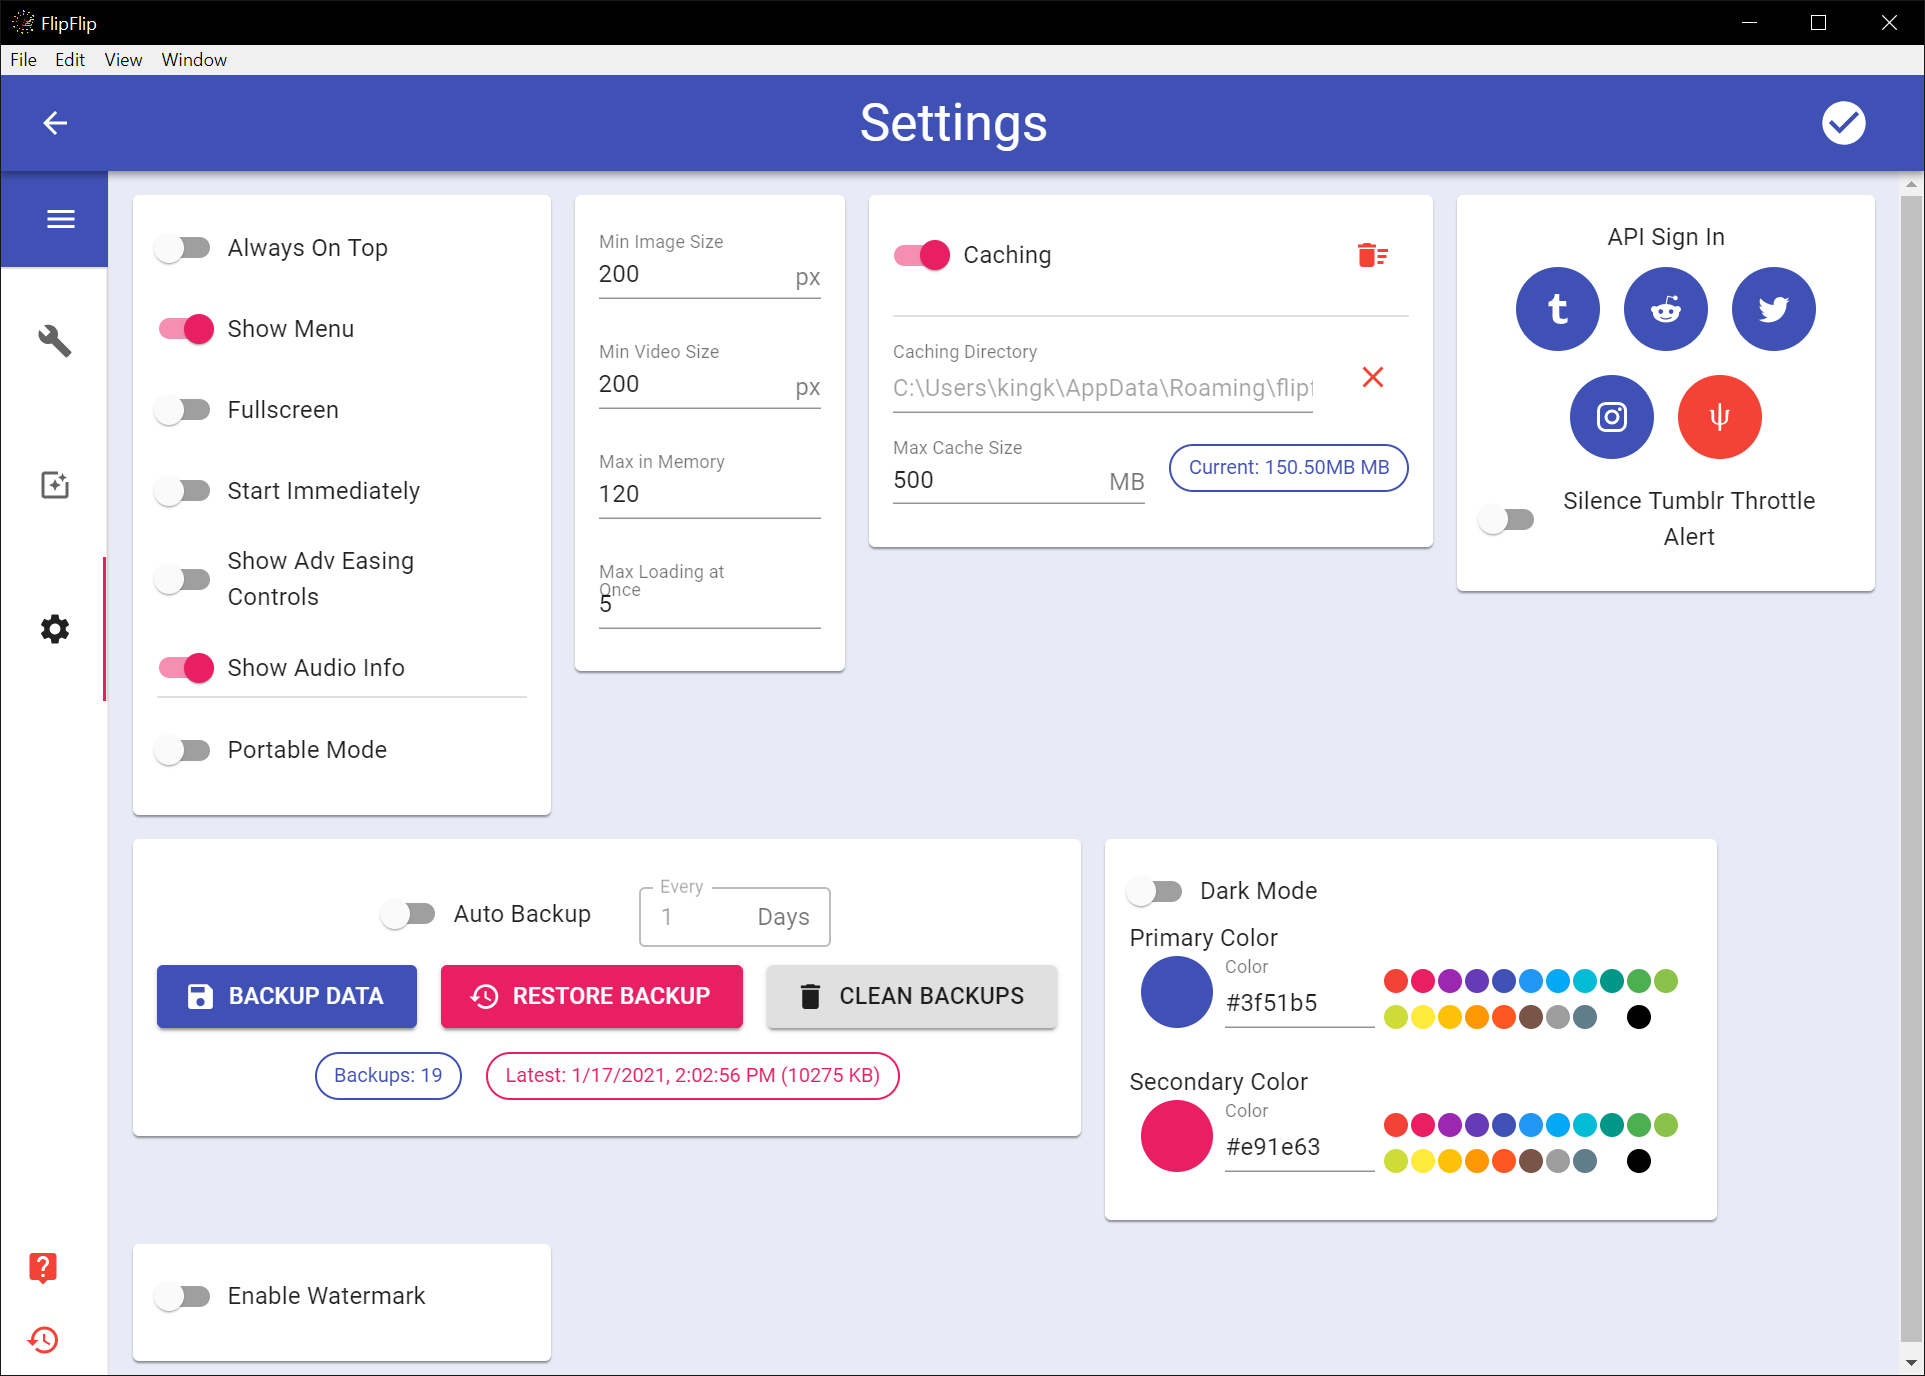
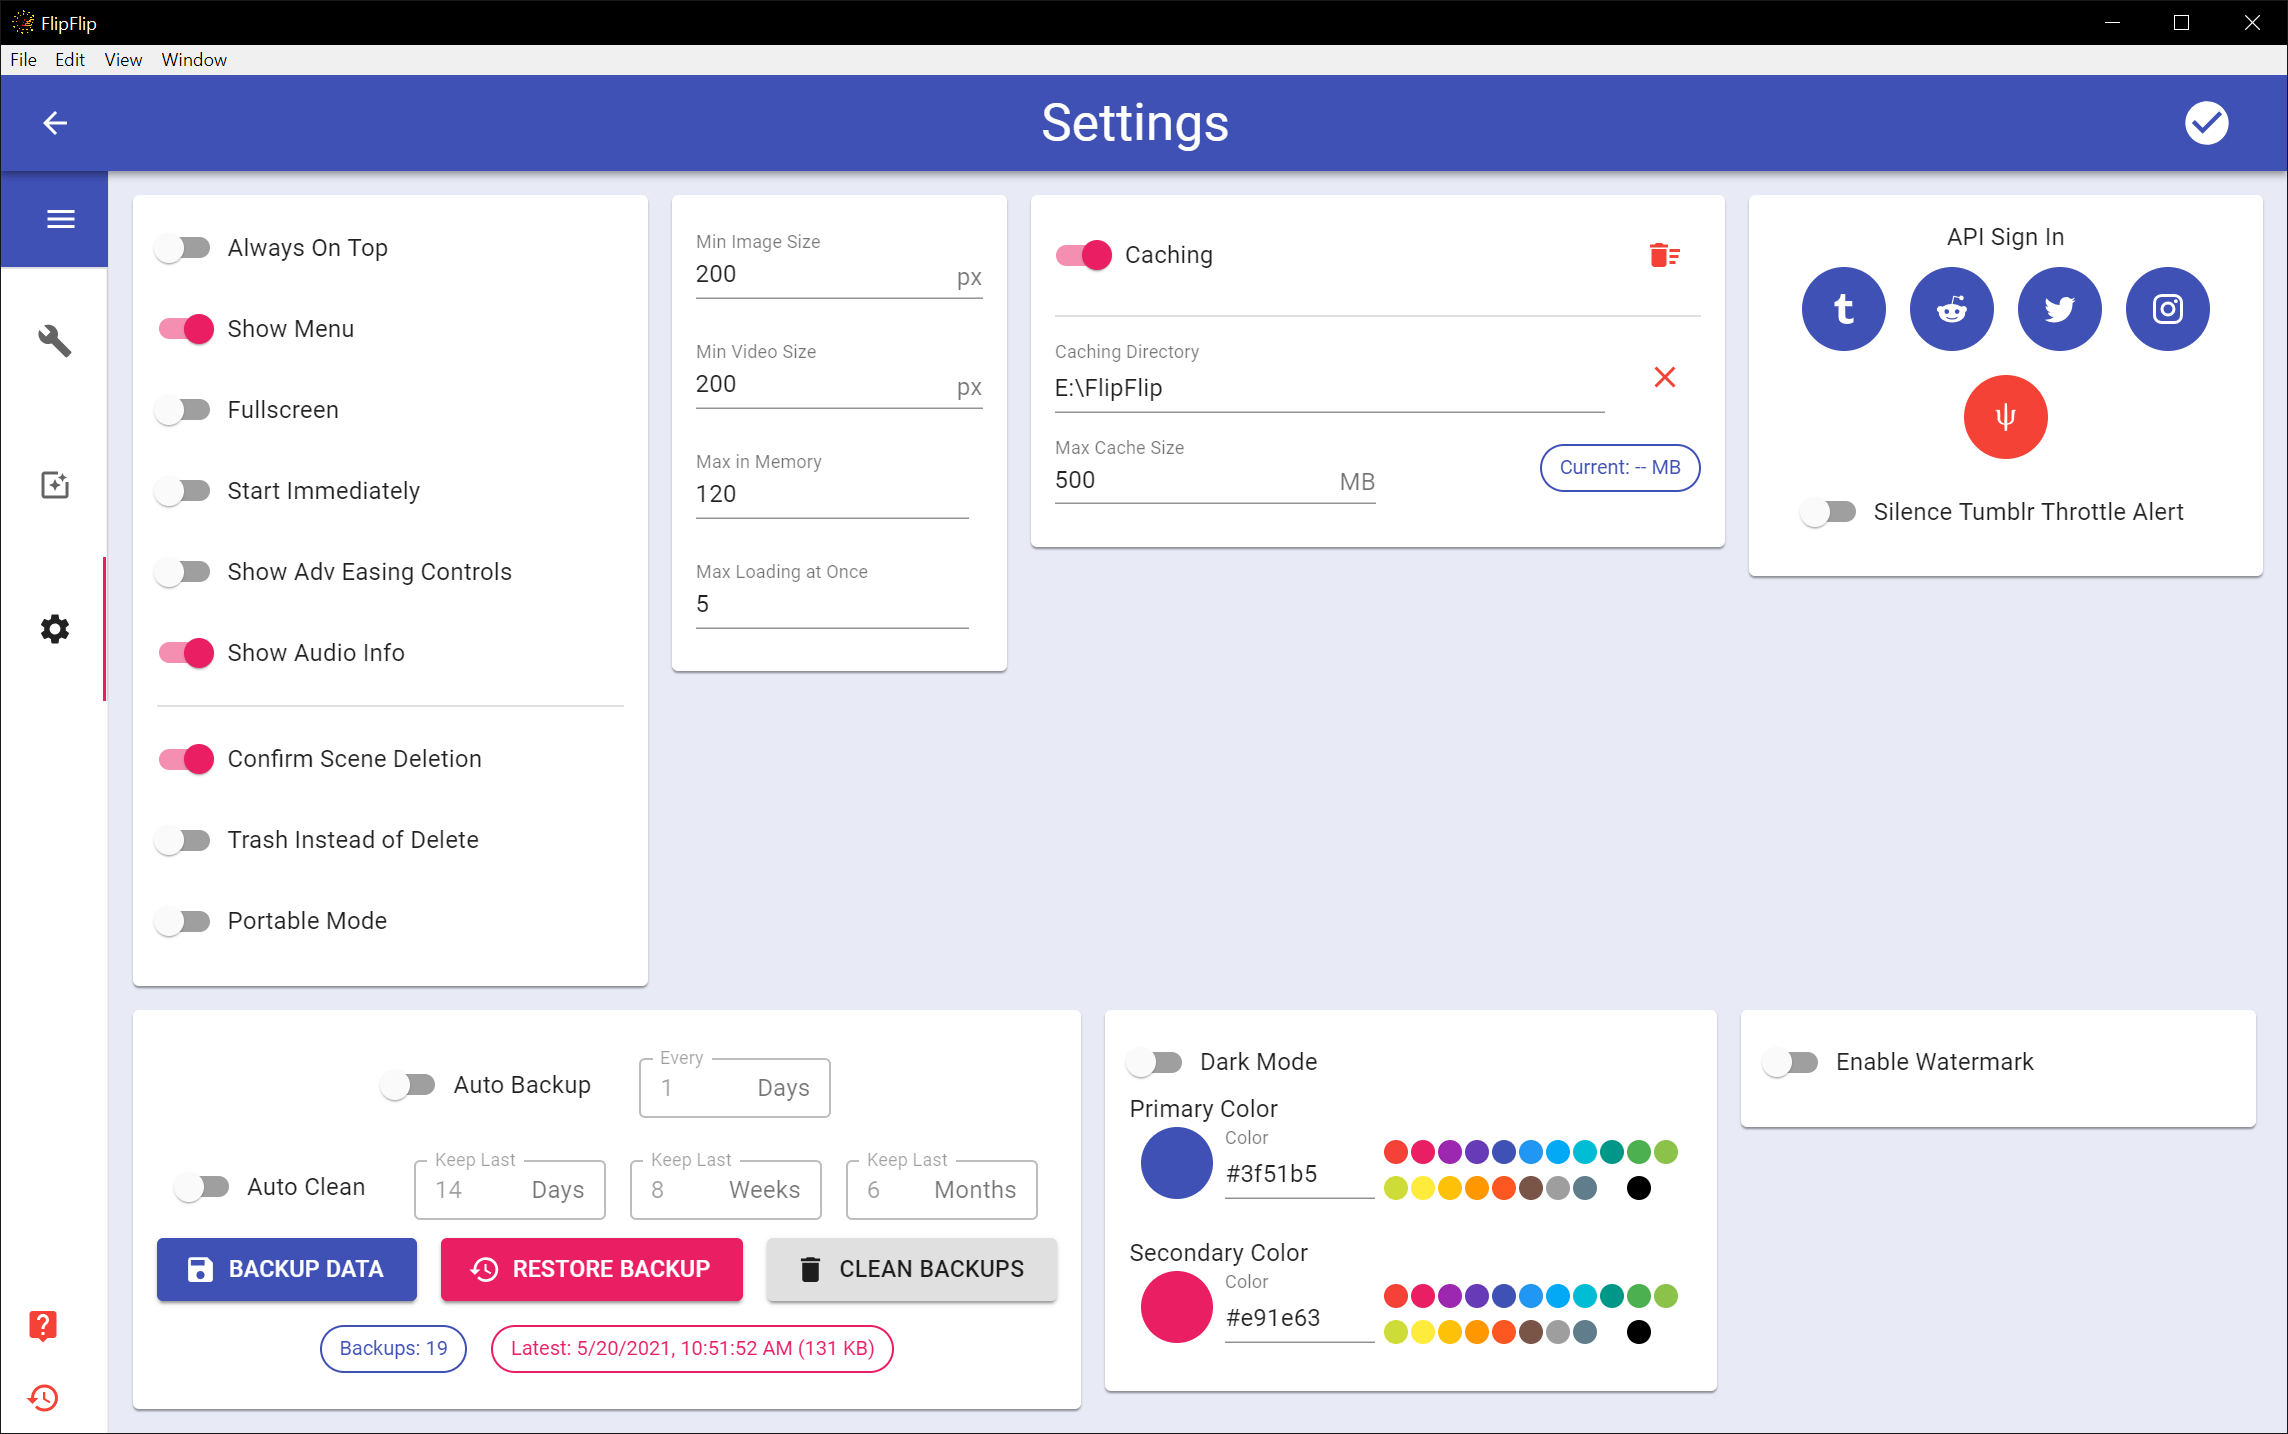
Prep for v3.1.3

diff --git a/src/renderer/components/ScenePicker.tsx b/src/renderer/components/ScenePicker.tsx
@@ -422,11 +422,6 @@ class ScenePicker extends React.Component {
               v{this.props.version}
             </Typography>
             <div className={classes.fill}/>
-            <SceneSearch
-              displaySources={this.state.displayScenes}
-              filters={this.state.filters}
-              placeholder={"Search ..."}
-              onUpdateFilters={this.onUpdateFilters.bind(this)}/>
             {this.state.newVersion != "" && (
               <Tooltip title={`Download ${this.state.newVersion}`}>
                 <IconButton color="inherit" className={classes.updateIcon} onClick={this.openGitRelease.bind(this)}>
@@ -436,6 +431,11 @@ class ScenePicker extends React.Component {
                 </IconButton>
               </Tooltip>
             )}
+            <SceneSearch
+              displaySources={this.state.displayScenes}
+              filters={this.state.filters}
+              placeholder={"Search ..."}
+              onUpdateFilters={this.onUpdateFilters.bind(this)}/>
           </Toolbar>
         </AppBar>
 

diff --git a/webpack.prod.js b/webpack.prod.js
@@ -17,7 +17,7 @@ let mainConfig = {
     resolve: {
         extensions: ['.js', '.json', '.ts'],
     },
-    externals: { 'react-native-fs': 'reactNativeFs' },
+    externals: { 'react-native-fs': 'reactNativeFs', 'trash': 'commonjs trash'  },
     module: {
         rules: [
             {
@@ -61,7 +61,7 @@ let rendererConfig = {
     resolve: {
         extensions: ['.js', '.json', '.ts', '.tsx'],
     },
-    externals: { 'react-native-fs': 'reactNativeFs' },
+    externals: { 'react-native-fs': 'reactNativeFs', 'trash': 'commonjs trash'  },
     module: {
         rules: [
             {

diff --git a/src/renderer/data/AppStorage.tsx b/src/renderer/data/AppStorage.tsx
@@ -1,4 +1,4 @@
-import { mkdirSync, existsSync, readFileSync, renameSync, writeFile } from 'fs';
+import { copyFileSync, mkdirSync, existsSync, readFileSync, renameSync, writeFile } from 'fs';
 
 import {getBackups, portablePath, removeDuplicatesBy, saveDir, savePath} from "./utils";
 import {cleanBackups} from "./actions";
@@ -63,7 +63,7 @@ export const defaultInitialState = {
  */
 function archiveFile(filePath: string): void {
   if (existsSync(filePath)) {
-    renameSync(filePath, (filePath + '.' + Date.now()));
+    copyFileSync(filePath, (filePath + '.' + Date.now()));
   }
 }
 

diff --git a/src/renderer/data/utils.ts b/src/renderer/data/utils.ts
@@ -314,7 +314,7 @@ function cachePath(source: string, typeDir: string, config: Config) {
   } else {
     if (source) {
       if (source != ST.video && source != ST.playlist) {
-        return saveDir + path.sep + "ImageCache" + path.sep + typeDir + path.sep + getFileGroup(source);
+        return saveDir + path.sep + "ImageCache" + path.sep + typeDir + path.sep + getFileGroup(source) + path.sep;
       } else {
         return saveDir + path.sep + "ImageCache" + path.sep + typeDir + path.sep;
       }

diff --git a/src/renderer/components/configGroups/PlayerBoolCard.tsx b/src/renderer/components/configGroups/PlayerBoolCard.tsx
@@ -106,7 +106,7 @@ export default class PlayerBoolCard extends React.Component {
                 <Switch checked={this.props.generalSettings.enableTrash}
                         onChange={this.onGBoolInput.bind(this, 'enableTrash')}/>
               }
-              label="Trash instead of Delete"/>
+              label="Trash Instead of Delete"/>
           </Tooltip>
         </Grid>
         <Grid item xs={12}>

diff --git a/src/renderer/components/player/PlayerBars.tsx b/src/renderer/components/player/PlayerBars.tsx
@@ -896,7 +896,7 @@ class PlayerBars extends React.Component {
           if (process.platform === "win32") {
             remote.shell.openExternal(getCachePath(source, this.props.config));
           } else {
-            remote.shell.openExternal(urlToPath(getCachePath(source, this.props.config)));
+            remote.shell.openItem(getCachePath(source, this.props.config));
           }
         }
       }));

diff --git a/docs/config.md b/docs/config.md
@@ -26,6 +26,9 @@ These settings control various player options.
 * `Show Adv Easing Controls` - enables controls for advanced [easings](effects.md) in effects
 * `Show Audio Info` - when enabled, [audio information](audio_tagging#tagging-a-track) will appear during playback when a track changes.
   * _This only ever applies to the first playlist_
+---
+* `Confirm Scene Delete` - Disabling this will hide the confirmation dialog when deleting a Scene.
+* `Trash Instead of Delete` - If enabled, deleted files will be moved to the trash instead of immediately deleted.
 * `Portable Mode` - Portable Mode will save a copy of your data in the same directory as the FlipFlip executable, 
 as well as the default save path. This needs to be enabled on each machine.
   * `Disable Local Saves` - When this is on, FlipFlip will _only_ save its data to the folder with the FlipFlip 
@@ -123,6 +126,10 @@ Backup your FlipFlip data or restore from a previous backup.
 #### Auto Backup
 Turn this on to automatically create a backup every time the number of configured days passes.
 
+#### Auto Clean
+Turn this on to automatically clean backups according to the configured settings. Will keep 1 backups from each of the
+configured time-periods.
+
 #### Backup Data
 This creates a backup with all your current FlipFlip data (preferences, library, scenes, etc.)
 
@@ -131,7 +138,8 @@ A dialog will appear with a list the your FlipFlip backups (by date/time). Selec
 restore and click `Restore`
 
 #### Clean Backups
-Backups might build up over time. Click `Clean Backups` to delete all but the most recent backup.
+Backups might build up over time. Click `Clean Backups` to clean your backups. If you have Auto-Clean enabled, this will
+use your configured rules. If Auto-Clean is off, you can choose how many of the most recent backups you'd like to keep.
 
 ## Theme
 The FlipFlip UI allows you to customize the **Primary** and **Secondary** colors. You can also toggle Dark Mode on/off here

diff --git a/docs/changelog.md b/docs/changelog.md
@@ -1,5 +1,27 @@
 # Changelog
 
+## 3.1.3 <small>(05/21/2021)</small>
+- Scrape images in separate thread
+- Add top level error-page
+- Add ability to search for Scenes
+- Add new options for cleaning backups
+- Add ability to send to trash instead of delete
+- Add ability to disable scene-delete confirmation
+- Add ability to batch delete scenes
+- Prevent playing same image consecutively, if possible
+- Prevent re-downloading of cached images
+- Improve core data.json saving, prevent leaving empty file
+- Improve ImageFap scraping and add captcha display
+- When restarting, continue playing from offset image
+- Fix bug with Imgur, GfyCat, and RedGifs URL resolution
+- Fix bug with Default Scene config
+- Fix bug with deleted grids being left in overlays
+- Fix bug with default cache path
+- Fix bug with concurrent Hydrus metadata requests
+- Fix bug with gif options not working for Hydrus
+- Fix bug with extra Hydrus arguments not be respected
+- Fix bug with Hydrus Session/API key
+
 ## 3.1.2 <small>(04/29/2021)</small>
 - Allow Play Full video to advance even when seeking
 - Fix subtitle styling and add to video clipper

diff --git a/docs/effects.md b/docs/effects.md
@@ -72,7 +72,7 @@ This section controls the strobe effect.  This effect restarts when the displaye
     </div>
 </div>
 
-## Fade In/Out BETA
+## Fade In/Out
 This section controls the fade in/out effect. This effect is continuous and will continue even if the displayed image 
 changes.
 * Choose fade in/out on/off. Control fade in/out time (ms).
@@ -89,10 +89,7 @@ changes.
     </div>
 </div>
 
-?> This is a BETA effect and may produce unexpected results when used with more complex timing functions or in 
-combination with other effects.
-
-## Panning BETA
+## Panning
 This section controls the panning effect. This effect is continuous and will continue even if the displayed image 
 changes.
 * Choose panning on/off.
@@ -112,6 +109,3 @@ changes.
         <div>Using the <b>Linear</b> easing for start and the <b>Bounce Out</b> easing for end</div>
     </div>
 </div>
-
-?> This is a BETA effect and may produce unexpected results when used with more complex timing functions or in 
-combination with other effects.
